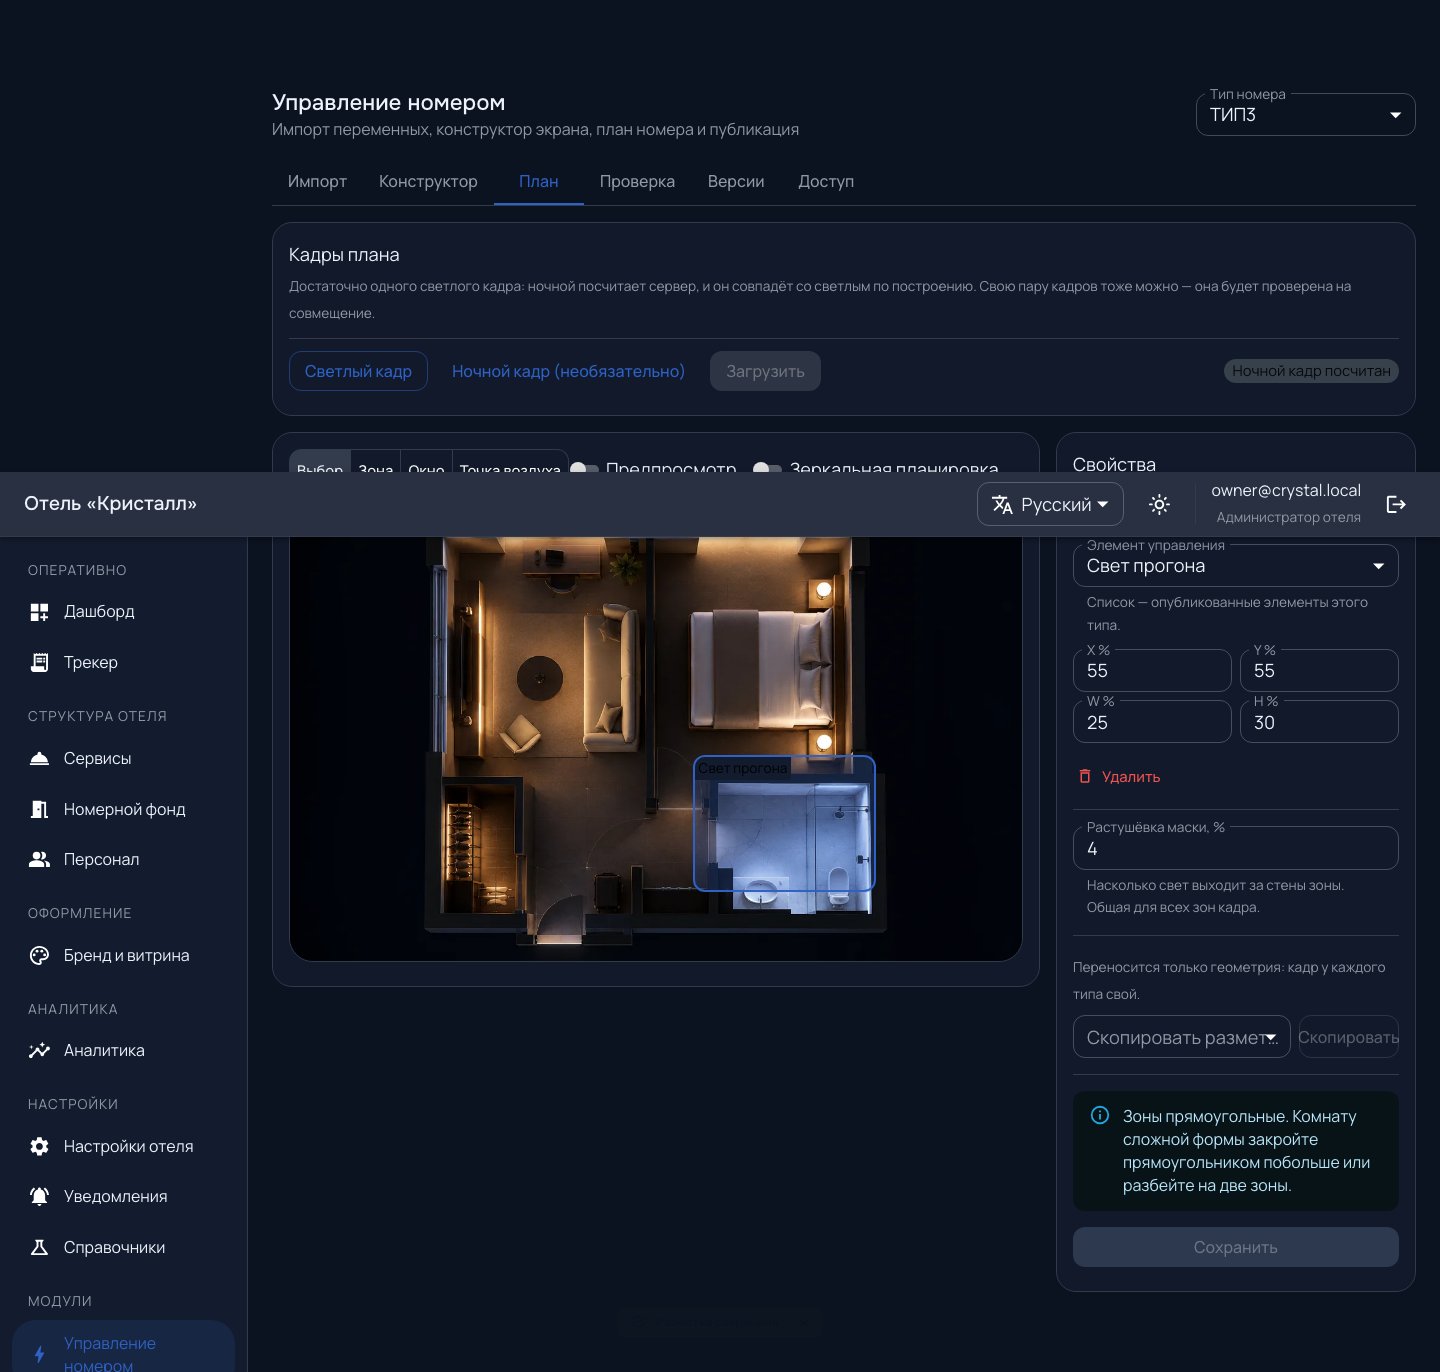
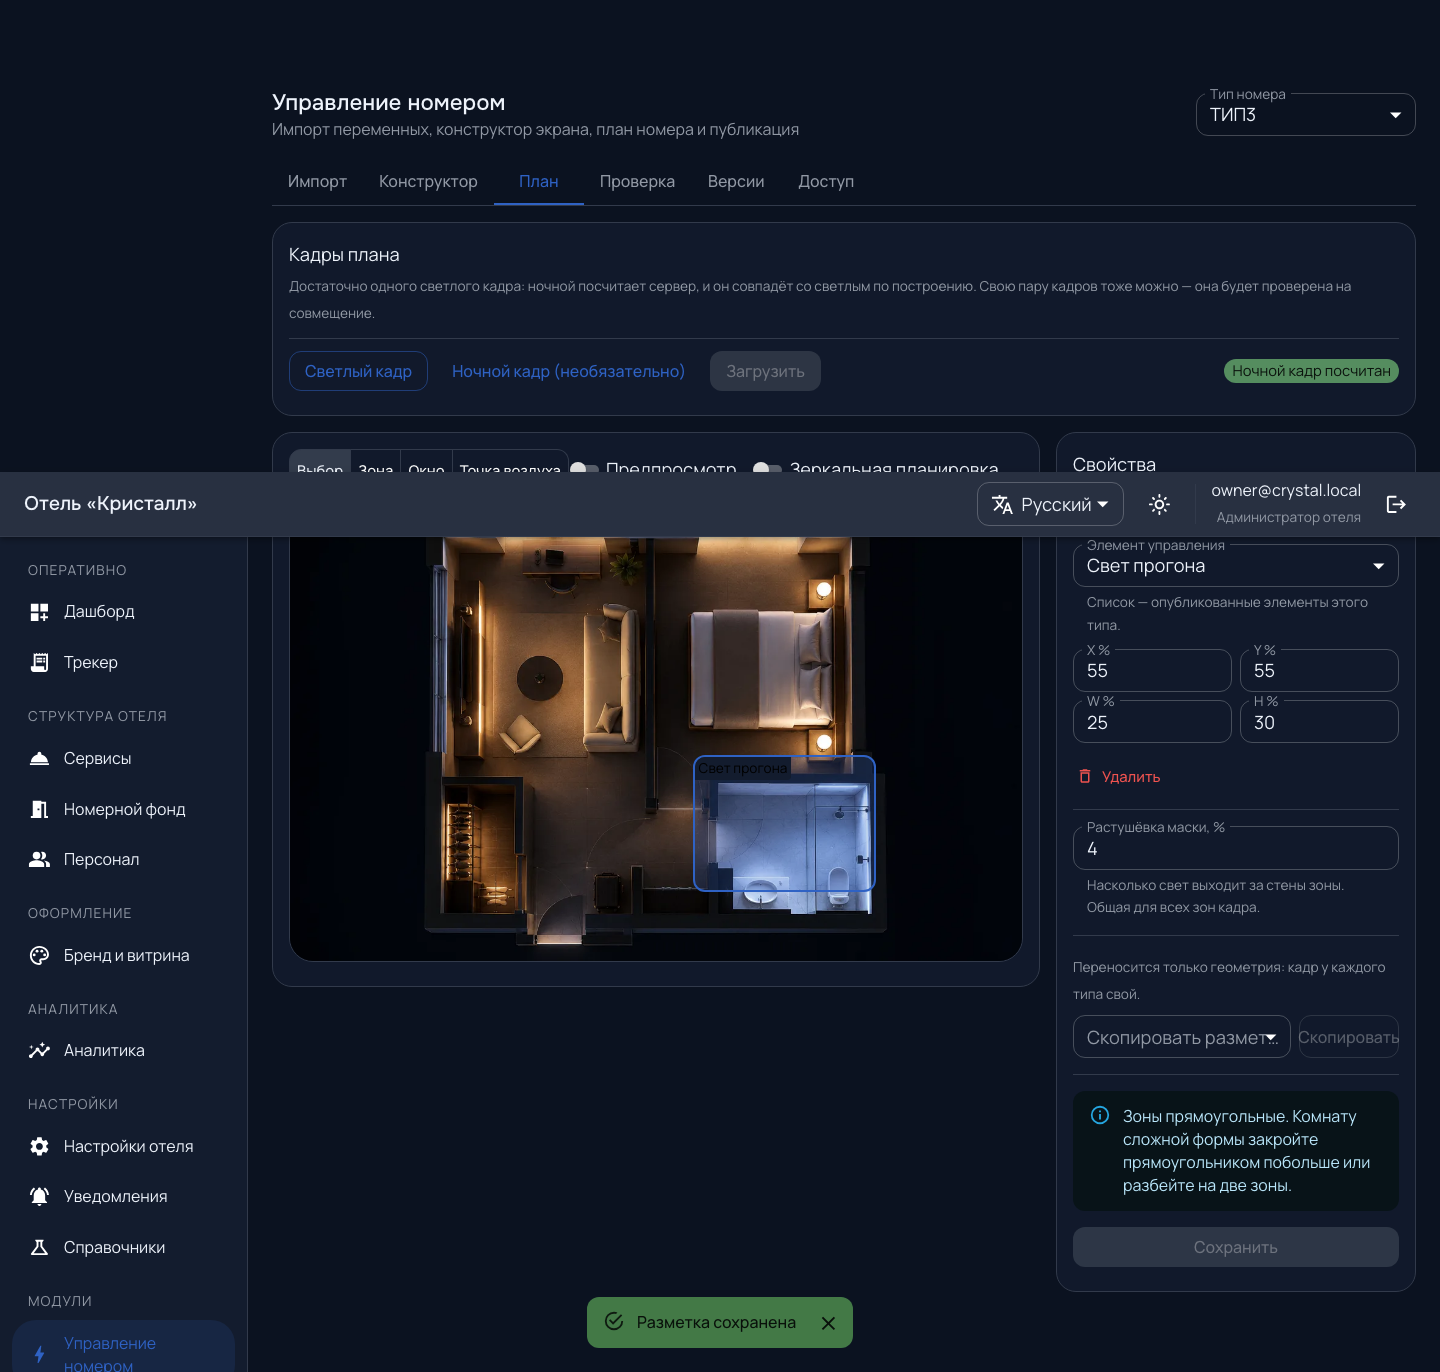
fix(grms): план типа правят под блокировкой, а не своей копией
## Причина, а не симптом

План — одна колонка JSON, а пишут в неё четверо: сохранение разметки,
загрузка кадров, копирование разметки с другого типа и фоновый расчёт
ночного кадра. Каждый читал план ЦЕЛИКОМ, менял своё поле и писал обратно
своей копией, поэтому поздний писатель затирал чужое.

Случай не редкий, а обычный: администратор начинает размечать план сразу
после загрузки кадра — то есть ровно в те секунды, пока фоном считается
ночной. Зона исчезала молча, без ошибки, и он узнавал об этом, когда план
оказывался пустым.

Теперь все четверо ходят через `plan.edit()`: чтение и запись одной
транзакцией с `select_for_update`. Каждый писатель видит чужие правки, а не
свою устаревшую копию.

Сторож `test_night_frame_does_not_wipe_zones_drawn_while_it_was_baking`
воспроизводит порядок «задача прочитала → редактор сохранил → задача
дописала». Проверен укусом: со снятой блокировкой краснеет.

## Сторож разметки ждал не того сигнала

Кнопка «Сохранить» гаснет и когда сохранять нечего, и ПОКА ЛЕТИТ ЗАПРОС.
Проверка `toBeDisabled` срабатывала на «летит», после чего тест спрашивал
сервер и на нагруженном стенде получал план без зоны — и обвинял в этом
редактор. Ждём тост «Разметка сохранена»: тот же сигнал, что видит
администратор.

## Уборка

Удалены отладочные скрипты, попавшие в репозиторий при разборе G9–G10:
`probe-tmp`, `probe2`, `probe3`, `probe-offline`, `check-tmp`, `measure`.
Скрипты съёмки (`shots-*.mjs`) остаются — ими обновляется документация.

Changed region(s): [[0.4062, 0.9184, 0.5938, 1.0], [0.8438, 0.2449, 0.9688, 0.3061]]

diff --git a/backend/api/cms/grms.py b/backend/api/cms/grms.py
@@ -487,21 +487,26 @@ def put_plan(request: HttpRequest, code: str, payload: PlanGeometryIn):
     уезжает в номер мимо публикации, а откат конфигурации возвращает геометрию
     своей версии.
     """
+    from apps.grms import plan as plan_geometry
+
     hotel = _hotel()
     with tenant_context(hotel):
         room_type = builder._type(code)
-        plan = dict(room_type.plan or {})
-        plan.update(
-            {
-                "aspect": payload.aspect or plan.get("aspect"),
-                "zones": payload.zones,
-                "windows": payload.windows,
-                "points": payload.points,
-                "mirrored": payload.mirrored,
-            }
-        )
-        room_type.plan = plan
-        room_type.save(update_fields=["plan", "updated_at"])
+
+        def apply(plan: dict) -> None:
+            plan.update(
+                {
+                    "aspect": payload.aspect or plan.get("aspect"),
+                    "zones": payload.zones,
+                    "windows": payload.windows,
+                    "points": payload.points,
+                    "mirrored": payload.mirrored,
+                }
+            )
+
+        # Под блокировкой: рядом может идти фоновый расчёт ночного кадра, и он
+        # пишет в ту же колонку. См. `plan.edit`.
+        plan_geometry.edit(room_type, apply)
 
         AuditLog.record(
             "grms.plan_saved",
@@ -532,6 +537,7 @@ def upload_plan_frames(
     построением, а не удачей.
     """
     from apps.grms import nightframe, pair
+    from apps.grms import plan as plan_geometry
     from apps.grms.tasks import bake_room_plan_night
     from apps.media.models import MediaAsset
     from apps.media.services import upload_asset
@@ -565,11 +571,7 @@ def upload_plan_frames(
             content_type=lit.content_type or "image/png",
             alt={"ru": "План номера, свет включён"},
         )
-        plan = dict(room_type.plan or {})
-        plan["asset_id"] = str(lit_asset.pk)
-        plan.pop("asset_off_id", None)
-        plan["asset_off_source"] = ""
-
+        off_asset = None
         if off_raw is not None:
             off_asset = upload_asset(
                 content=off_raw,
@@ -578,22 +580,32 @@ def upload_plan_frames(
                 content_type=off.content_type or "image/png",
                 alt={"ru": "План номера, свет выключен"},
             )
-            plan["asset_off_id"] = str(off_asset.pk)
-            plan["asset_off_source"] = "uploaded"
 
         # Пропорция берётся ИЗ ФАЙЛА: спрашивать её у администратора значит
         # спрашивать то, что и так известно, и однажды получить неверный ответ.
+        aspect = None
         try:
             from PIL import Image
             import io as _io
 
             with Image.open(_io.BytesIO(lit_raw)) as image:
-                plan["aspect"] = round(image.width / image.height, 4)
+                aspect = round(image.width / image.height, 4)
         except Exception:  # noqa: BLE001 — не смогли прочитать, спросим позже
-            pass
+            aspect = None
 
-        room_type.plan = plan
-        room_type.save(update_fields=["plan", "updated_at"])
+        def apply(plan: dict) -> None:
+            plan["asset_id"] = str(lit_asset.pk)
+            plan.pop("asset_off_id", None)
+            plan["asset_off_source"] = ""
+            if off_asset is not None:
+                plan["asset_off_id"] = str(off_asset.pk)
+                plan["asset_off_source"] = "uploaded"
+            if aspect:
+                plan["aspect"] = aspect
+
+        # Разметка при этом СОХРАНЯЕТСЯ: кадр меняют и на размеченном типе,
+        # а координаты в процентах переживают смену рендера. См. `plan.edit`.
+        plan_geometry.edit(room_type, apply)
 
     if off_raw is None:
         # Считаем ночной кадр фоном: расчёт идёт секунды, а размечать план
@@ -625,6 +637,8 @@ def copy_plan(request: HttpRequest, code: str, payload: PlanCopyIn):
     этого типа нет такого элемента, публикация не пройдёт и скажет, чего не
     хватает.
     """
+    from apps.grms import plan as plan_geometry
+
     hotel = _hotel()
     with tenant_context(hotel):
         source = builder._type(payload.source)
@@ -635,15 +649,17 @@ def copy_plan(request: HttpRequest, code: str, payload: PlanCopyIn):
         if not donor.get("zones"):
             raise ValidationError("У выбранного типа нет разметки", field="source")
 
-        plan = dict(target.plan or {})
-        plan.update(
-            {
-                "zones": donor.get("zones") or [],
-                "windows": donor.get("windows") or [],
-                "points": donor.get("points") or [],
-                "mirrored": bool(donor.get("mirrored")),
-            }
-        )
-        target.plan = plan
-        target.save(update_fields=["plan", "updated_at"])
+        def apply(plan: dict) -> None:
+            plan.update(
+                {
+                    "zones": donor.get("zones") or [],
+                    "windows": donor.get("windows") or [],
+                    "points": donor.get("points") or [],
+                    "mirrored": bool(donor.get("mirrored")),
+                }
+            )
+
+        # Кадры остаются свои — копируется РАЗМЕТКА. Под блокировкой: рядом
+        # может считаться ночной кадр этого же типа. См. `plan.edit`.
+        plan_geometry.edit(target, apply)
     return get_plan(request, code)

diff --git a/backend/tests/test_grms_plan.py b/backend/tests/test_grms_plan.py
@@ -360,3 +360,55 @@ def test_a_plan_without_the_flag_is_not_mirrored(seeded):
     assert payload["plan"]["mirrored"] is False
     with tenant_context(seeded):
         assert plan_geometry.for_guest(payload["plan"])["mirrored"] is False
+
+
+# --- Двое пишут в один план -------------------------------------------------
+
+
+def test_night_frame_does_not_wipe_zones_drawn_while_it_was_baking(seeded):
+    """
+    Ночной кадр считается СЕКУНДЫ, и всё это время администратор размечает
+    план: обвести зону сразу после загрузки кадра — обычный ход работы, а не
+    редкое совпадение.
+
+    Раньше оба писателя читали план целиком, меняли своё поле и писали обратно
+    своей копией: задача, прочитавшая план ДО сохранения разметки, затирала
+    только что обведённые зоны — тихо, без ошибки, и администратор узнавал об
+    этом, когда план оказывался пустым. Ниже воспроизведён ровно этот порядок:
+    читаем план в «задачу», сохраняем зону из «редактора», и только потом
+    задача дописывает свой кадр.
+    """
+    room_type = _type(seeded)
+    with tenant_context(seeded):
+        # Копия плана «в руках» задачи: прочитана ДО того, как редактор сохранил
+        # зону, и до конца расчёта в память задачи ничего нового не попадёт.
+        baking = RoomType.objects.get(pk=room_type.pk)
+        before = len(baking.plan.get("zones") or [])
+
+        zone = {
+            "code": "zone-нарисована",
+            "controlId": PLAN_ZONE_LIGHTS["living"],
+            "hit": {"x": 10, "y": 10, "w": 10, "h": 10},
+            "mask": {"x": 9, "y": 9, "w": 12, "h": 12},
+        }
+        editor = RoomType.objects.get(pk=room_type.pk)
+        plan_geometry.edit(
+            editor, lambda plan: plan.update({"zones": [*(plan.get("zones") or []), zone]})
+        )
+
+        # А теперь задача дописывает СВОЁ поле, держа устаревшую копию.
+        plan_geometry.edit(
+            baking,
+            lambda plan: plan.update(
+                {
+                    "asset_off_id": "00000000-0000-0000-0000-000000000000",
+                    "asset_off_source": "baked",
+                }
+            ),
+        )
+
+        fresh = RoomType.objects.get(pk=room_type.pk)
+
+    assert len(fresh.plan["zones"]) == before + 1, "зона пережила расчёт ночного кадра"
+    assert fresh.plan["zones"][-1]["code"] == "zone-нарисована"
+    assert fresh.plan["asset_off_source"] == "baked"

diff --git a/backend/apps/grms/tasks.py b/backend/apps/grms/tasks.py
@@ -204,6 +204,7 @@ def bake_room_plan_night(self, hotel_id: str, room_type_code: str, lit_asset_id:
     """
     from apps.core.context import tenant_context
     from apps.grms import nightframe
+    from apps.grms import plan as plan_geometry
     from apps.grms.models import RoomType
     from apps.hotels.models import Hotel
     from apps.media.models import MediaAsset
@@ -232,12 +233,16 @@ def bake_room_plan_night(self, hotel_id: str, room_type_code: str, lit_asset_id:
         room_type = RoomType.objects.filter(code=room_type_code).first()
         if room_type is None:
             return {"status": "no_type"}
-        plan = dict(room_type.plan or {})
-        plan["asset_off_id"] = str(night.pk)
-        # Признак происхождения: посчитанный кадр совмещён по построению, и
-        # проверять его парность незачем — в отличие от принесённой пары.
-        plan["asset_off_source"] = "baked"
-        room_type.plan = plan
-        room_type.save(update_fields=["plan", "updated_at"])
+
+        def apply(plan: dict) -> None:
+            plan["asset_off_id"] = str(night.pk)
+            # Признак происхождения: посчитанный кадр совмещён по построению, и
+            # проверять его парность незачем — в отличие от принесённой пары.
+            plan["asset_off_source"] = "baked"
+
+        # ТОЛЬКО СВОЁ ПОЛЕ И ПОД БЛОКИРОВКОЙ. Расчёт идёт секунды, и всё это
+        # время администратор размечает план; запись целиком своей копией
+        # стирала бы обведённые за эти секунды зоны. См. `plan.edit`.
+        plan_geometry.edit(room_type, apply)
 
     return {"status": "ready", "asset_off_id": str(night.pk)}

diff --git a/backend/apps/grms/plan.py b/backend/apps/grms/plan.py
@@ -39,6 +39,35 @@ ORIENTATIONS = ("horizontal", "vertical")
 PLATE_VARIANT = "full"
 
 
+def edit(room_type, mutate) -> dict:
+    """
+    Изменить план типа ПОД БЛОКИРОВКОЙ СТРОКИ и вернуть получившийся план.
+
+    План — одна колонка JSON, а пишут в неё трое: сохранение разметки, загрузка
+    кадров и фоновый расчёт ночного кадра. Каждый читал план, менял своё поле и
+    писал обратно целиком, и «прочитал — посчитал — записал» у двоих сразу
+    означало, что поздний писатель затирает чужое: администратор обводит зону
+    ровно в те секунды, пока фоном считается ночной кадр, — это не редкий
+    случай, а ОБЫЧНЫЙ ход работы, потому что размечать план он начинает сразу
+    после загрузки кадра.
+
+    Поэтому чтение и запись идут одной транзакцией с `select_for_update`:
+    каждый писатель видит чужие правки, а не свою устаревшую копию.
+    """
+    from django.db import transaction
+
+    from apps.grms.models import RoomType
+
+    with transaction.atomic():
+        locked = RoomType.objects.select_for_update().get(pk=room_type.pk)
+        plan = dict(locked.plan or {})
+        mutate(plan)
+        locked.plan = plan
+        locked.save(update_fields=["plan", "updated_at"])
+    room_type.plan = plan
+    return plan
+
+
 def _rect(raw: object) -> dict | None:
     """Прямоугольник в процентах. Отрицательный x/y допустим намеренно."""
     if not isinstance(raw, dict):
